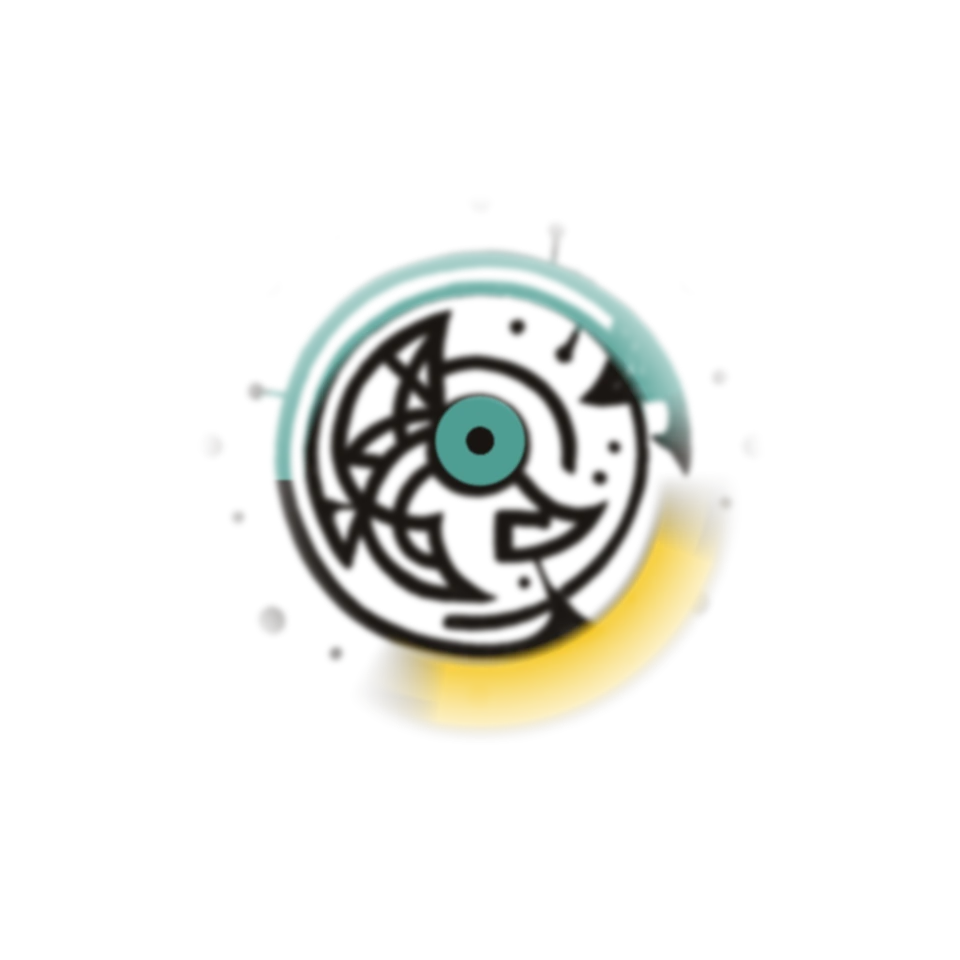
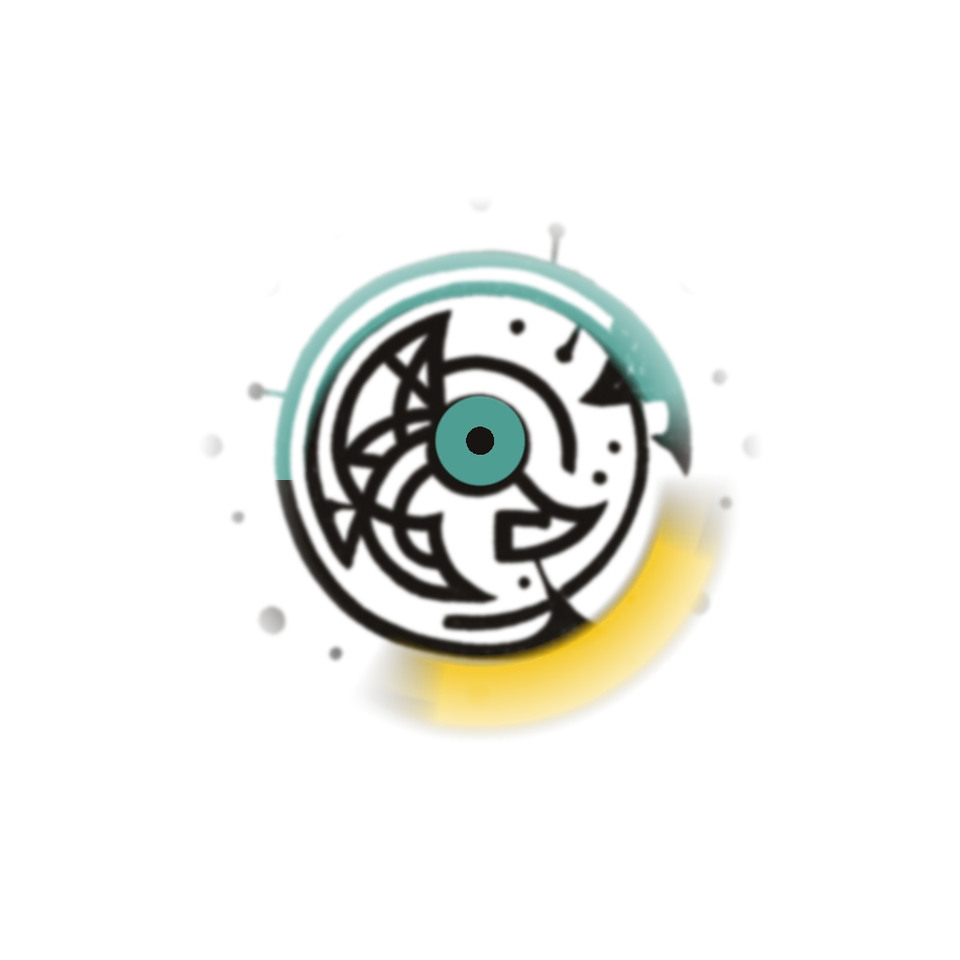
Sharpen the hero mark and stop the fallback content from flashing
The hero mark's radial-fade processing applied a gaussian blur to the RGB
channels across the whole image, softening the crisp linework and eye along
with the intended soft edge. Reprocessed with no RGB blur — only the alpha
channel gets a light blur, so the core geometry stays sharp and just the
outer ring/dots dissolve into the background as intended.

Separately: the #nc fallback (poems/bio content, shown until the sea
mounts) had no way to stay hidden during a normal page load, since it was
unconditionally present in the DOM with no visibility gating. On any load
slow enough for a browser to paint before componentDidMount fires — which
covers most real-world loads, given support.js, vendored React, and fonts
all block rendering before the runtime can mount — visitors would see the
full poems page for a moment before the sea replaced it.

Fixed with a synchronous inline script placed before support.js in <head>:
it adds a `js-boot` class to <html> immediately, before body parsing can
even begin (since the blocking script that follows it can't run until
this line does), so `.js-boot #nc{display:none}` is in effect from #nc's
very first possible paint. componentDidMount clears a 4s failsafe timer
that would otherwise remove the class and reveal the fallback — preserving
the crash-resilience behavior for a genuinely stuck or crashed mount,
without it firing on ordinary loads. Verified with isolated resource-delay
[…]

Changed region(s): [[0.2812, 0.2812, 0.5625, 0.6562], [0.4375, 0.4062, 0.7188, 0.6875], [0.5625, 0.3125, 0.625, 0.375]]

diff --git a/index.html b/index.html
@@ -21,7 +21,8 @@
 <link rel="preload" href="assets/site-fonts.css" as="style">
 <link rel="preload" href="assets/logo-white.webp" as="image" type="image/webp">
 <link href="assets/site-fonts.css" rel="stylesheet">
-<style>x-dc{display:none!important}</style>
+<style>x-dc{display:none!important}.js-boot #nc{display:none}</style>
+<script>document.documentElement.classList.add('js-boot');window.__dcMountTimeout=setTimeout(function(){document.documentElement.classList.remove('js-boot');},4000);</script>
 <script src="./support.js"></script>
 </head>
 <body>
@@ -308,6 +309,7 @@ class Component extends DCLogic {
     this._isTouch = !!(window.matchMedia && window.matchMedia('(pointer: coarse)').matches);
     this.raf = requestAnimationFrame(this.tick);
     this._packTimers = [setTimeout(() => this.schedulePack(), 280), setTimeout(() => this.schedulePack(), 1000)];
+    clearTimeout(window.__dcMountTimeout);
     document.getElementById('nc')?.remove();
     if (this.state.phase === 'sea') this.maybeShowDragHint();
   }
